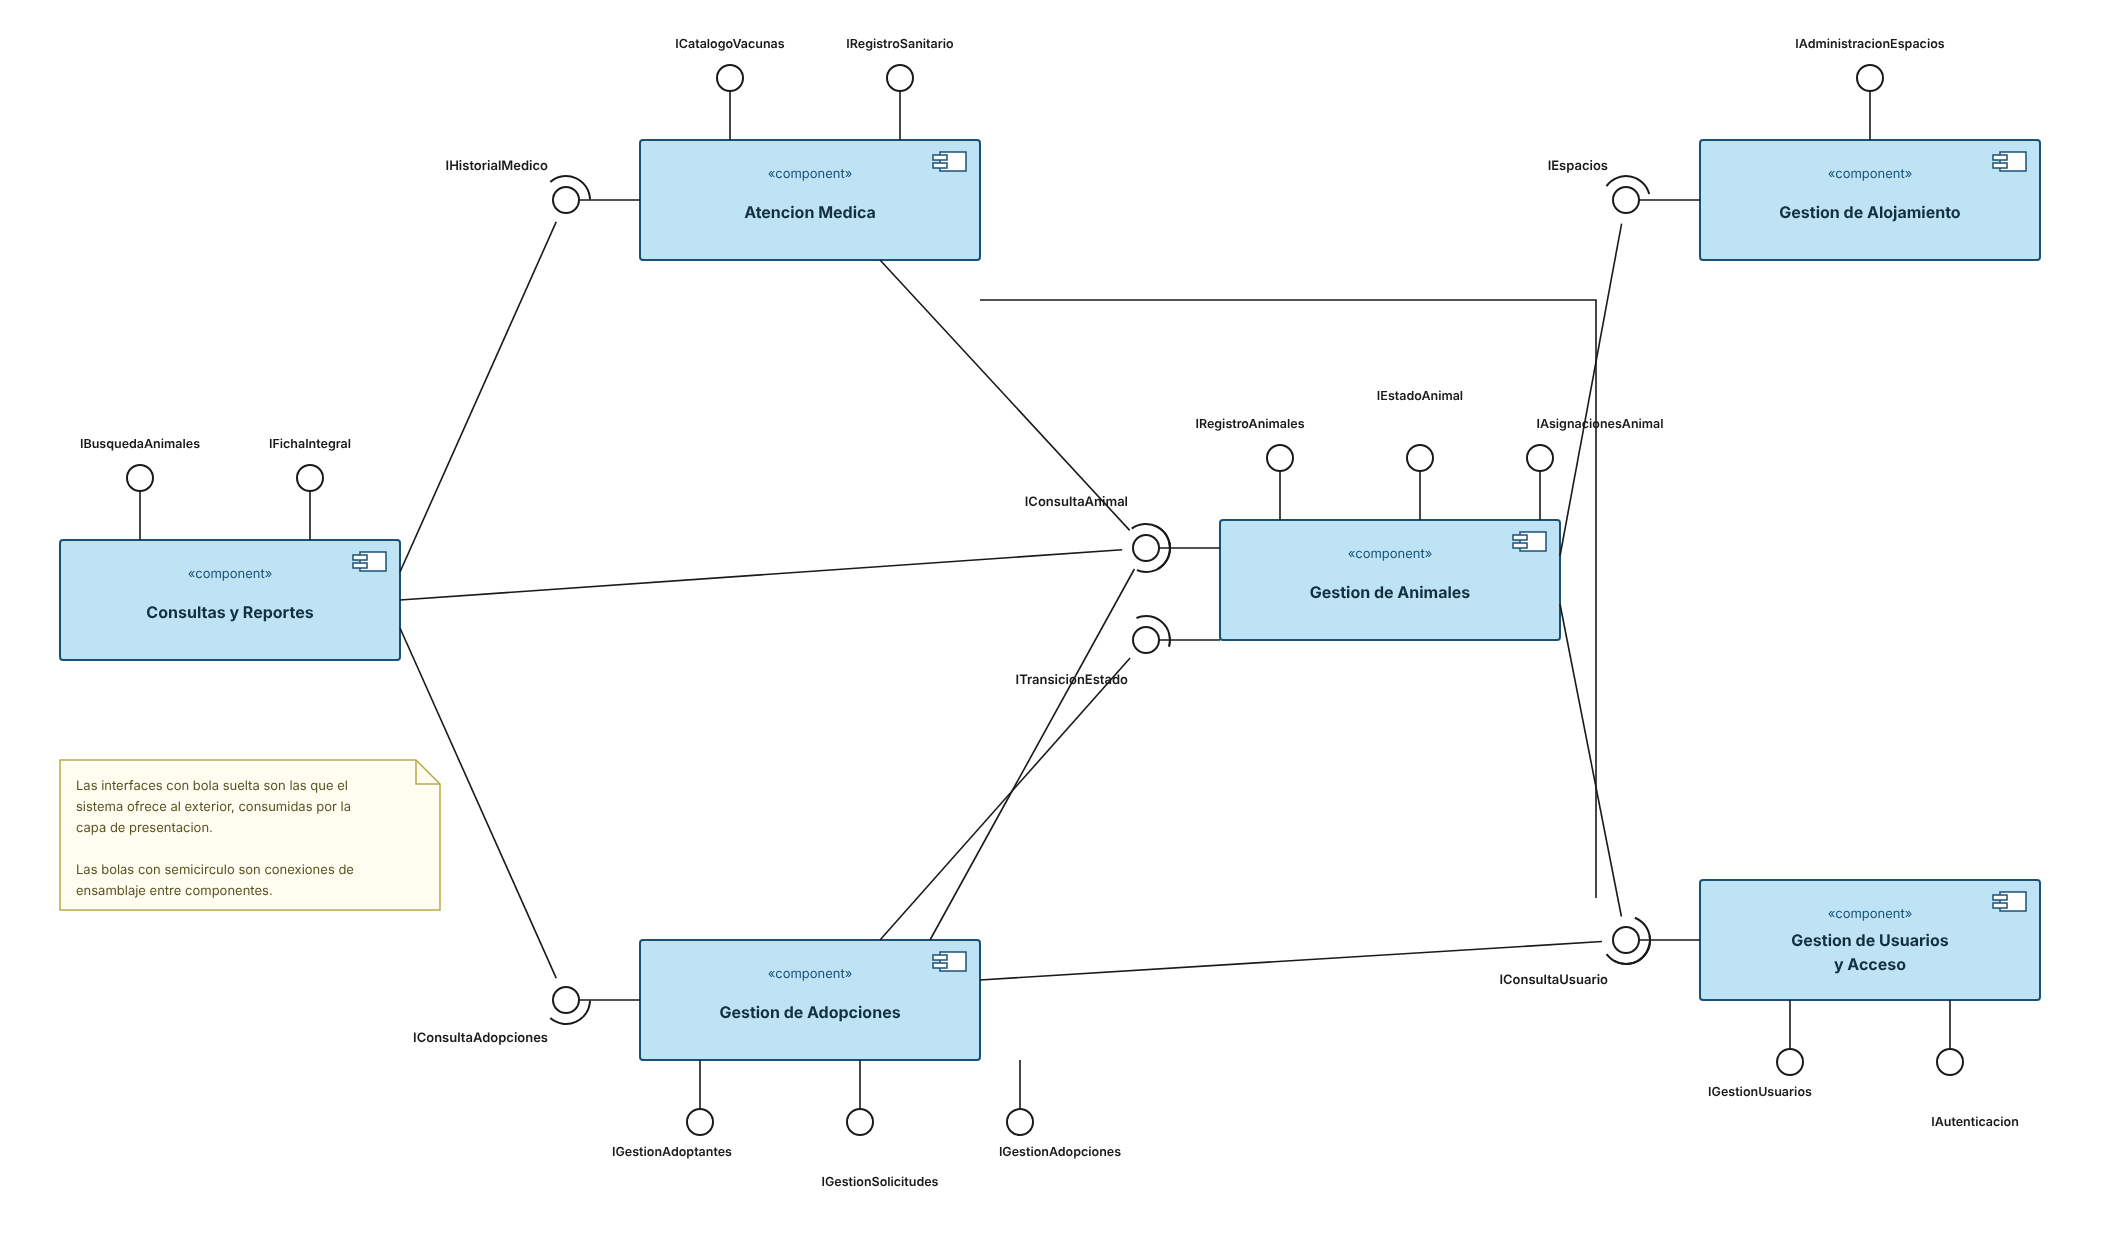
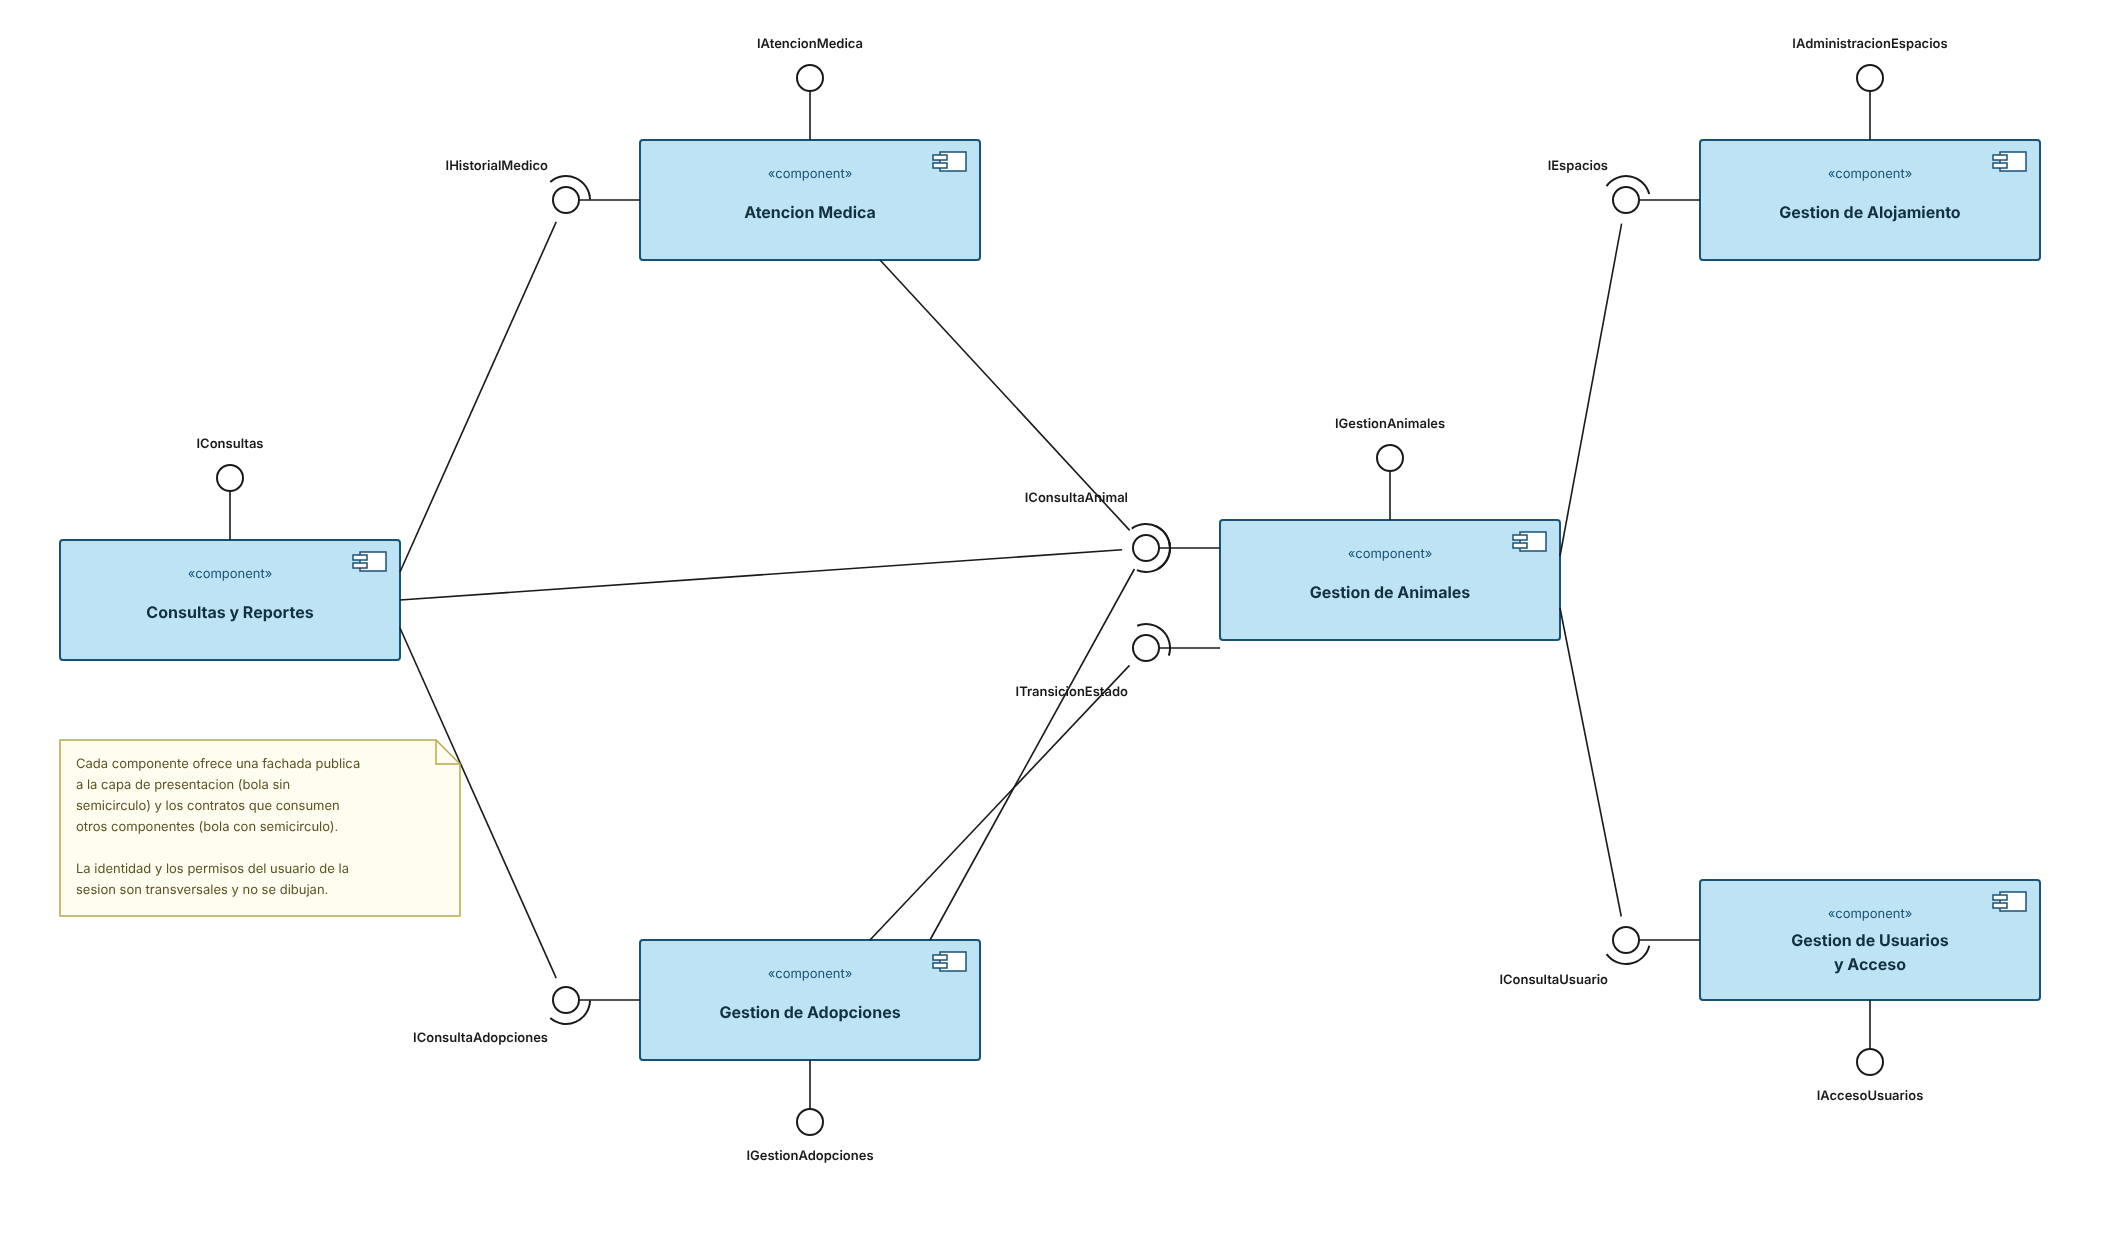
Depurar interfaces de la vista funcional: doce en lugar de diecinueve

diff --git a/docs/vista-funcional.md b/docs/vista-funcional.md
@@ -19,23 +19,16 @@ La columna **Clases** enlaza esta vista con la [vista lógica](vista-logica.md);
 
 ## Interfaces públicas
 
-Son las que el sistema ofrece al exterior; las consume la capa de presentación. En el diagrama se dibujan como bola sin semicírculo.
+Cada componente ofrece **una sola** fachada hacia la capa de presentación. En el diagrama se dibujan como bola sin semicírculo.
 
-| Interfaz | La proporciona | Operaciones principales | Historias |
+| Interfaz | La proporciona | Operaciones | Historias |
 |---|---|---|---|
-| `IGestionUsuarios` | Gestión de Usuarios y Acceso | `registrarUsuario` | HU-01 |
-| `IAutenticacion` | Gestión de Usuarios y Acceso | `autenticar`, `cerrarSesion` | HU-02 |
+| `IAccesoUsuarios` | Gestión de Usuarios y Acceso | `registrarUsuario`, `autenticar`, `cerrarSesion` | HU-01, HU-02 |
 | `IAdministracionEspacios` | Gestión de Alojamiento | `crearEspacio`, `actualizarCapacidad`, `desactivarEspacio`, `reactivarEspacio`, `consultarOcupacion` | HU-06 |
-| `IRegistroAnimales` | Gestión de Animales | `registrarAnimal`, `actualizarAnimal` | HU-03 |
-| `IEstadoAnimal` | Gestión de Animales | `cambiarEstado` | HU-04 |
-| `IAsignacionesAnimal` | Gestión de Animales | `asignarAlojamiento`, `asignarVoluntario` | HU-05, HU-21 |
-| `ICatalogoVacunas` | Atención Médica | `crearTipoVacuna`, `desactivarTipoVacuna`, `reactivarTipoVacuna` | HU-09 |
-| `IRegistroSanitario` | Atención Médica | `registrarVacunacion`, `registrarTratamiento`, `finalizarTratamiento` | HU-10, HU-11 |
-| `IGestionAdoptantes` | Gestión de Adopciones | `registrarAdoptante`, `actualizarAdoptante` | HU-12 |
-| `IGestionSolicitudes` | Gestión de Adopciones | `registrarSolicitud`, `evaluarSolicitud`, `cancelarSolicitud`, `consultarSolicitudes` | HU-13 a HU-16 |
-| `IGestionAdopciones` | Gestión de Adopciones | `registrarAdopcion`, `registrarDevolucion`, `programarVisita`, `registrarResultadoVisita` | HU-17 a HU-20 |
-| `IBusquedaAnimales` | Consultas y Reportes | `buscar` | HU-07 |
-| `IFichaIntegral` | Consultas y Reportes | `fichaDe` | HU-08 |
+| `IGestionAnimales` | Gestión de Animales | `registrarAnimal`, `actualizarAnimal`, `cambiarEstado`, `asignarAlojamiento`, `asignarVoluntario` | HU-03, HU-04, HU-05, HU-21 |
+| `IAtencionMedica` | Atención Médica | `crearTipoVacuna`, `desactivarTipoVacuna`, `registrarVacunacion`, `registrarTratamiento`, `finalizarTratamiento` | HU-09, HU-10, HU-11 |
+| `IGestionAdopciones` | Gestión de Adopciones | `registrarAdoptante`, `registrarSolicitud`, `evaluarSolicitud`, `cancelarSolicitud`, `registrarAdopcion`, `registrarDevolucion`, `programarVisita`, `registrarResultadoVisita` | HU-12 a HU-20 |
+| `IConsultas` | Consultas y Reportes | `buscarAnimales`, `fichaDe`, `consultarSolicitudes` | HU-07, HU-08 |
 
 ## Interfaces internas y conexiones de ensamblaje
 
@@ -43,14 +36,14 @@ Son los contratos entre componentes. En el diagrama cada una se dibuja con una s
 
 | Interfaz | La proporciona | La requieren | Operaciones | Por qué se necesita |
 |---|---|---|---|---|
-| `IConsultaUsuario` | Gestión de Usuarios y Acceso | Gestión de Animales, Atención Médica, Gestión de Adopciones | `existeConRol`, `obtenerNombre` | Validar que el voluntario, el veterinario o el coordinador que queda como responsable exista y tenga ese rol |
+| `IConsultaUsuario` | Gestión de Usuarios y Acceso | Gestión de Animales | `existeConRol`, `listarPorRol` | Al asignar el cuidador de un animal hay que ofrecer la lista de voluntarios y verificar que el elegido tenga ese rol |
 | `IEspacios` | Gestión de Alojamiento | Gestión de Animales | `tieneCupo`, `ocupar`, `liberar` | Comprobar el cupo antes de alojar un animal y liberar el espacio al adoptarse |
 | `IConsultaAnimal` | Gestión de Animales | Atención Médica, Gestión de Adopciones, Consultas y Reportes | `obtenerAnimal`, `estadoActual`, `estaDisponible`, `listar` | Atención Médica no vacuna a un animal *No disponible*; Adopciones no acepta solicitudes sobre uno que no esté *Disponible*; Consultas arma la ficha |
 | `ITransicionEstado` | Gestión de Animales | Gestión de Adopciones | `marcarEnProcesoAdopcion`, `marcarAdoptado`, `marcarEnValoracion` | Los cambios de estado automáticos al aprobar, entregar o recibir una devolución |
 | `IHistorialMedico` | Atención Médica | Consultas y Reportes | `vacunasDe`, `tratamientosDe`, `tieneTratamientoActivo` | La ficha integral muestra el historial sanitario |
 | `IConsultaAdopciones` | Gestión de Adopciones | Consultas y Reportes | `solicitudesDe`, `adopcionDe`, `visitasDe` | La ficha integral muestra solicitudes, adopción y visitas |
 
-Son seis interfaces internas y diez conexiones de ensamblaje.
+Son seis interfaces internas y ocho conexiones de ensamblaje. En total, doce interfaces: seis fachadas públicas y seis contratos internos.
 
 ## Decisiones de esta vista
 
@@ -59,6 +52,12 @@ Son seis interfaces internas y diez conexiones de ensamblaje.
 **Seguimiento Posadopción se fusionó dentro de Gestión de Adopciones.** Tenía una sola clase, dos historias y su única colaboración era con Adopciones. Las visitas de seguimiento son parte del ciclo de vida de la adopción, no una responsabilidad separada.
 
 **Consultas y Reportes se mantiene como componente propio y no dentro de Atención Médica.** La ficha integral consolida cinco cosas: estado del animal, alojamiento, historial médico, solicitudes y visitas. Si viviera dentro de Atención Médica, ese componente tendría que depender de Gestión de Adopciones, lo que mezcla la responsabilidad sanitaria con la del proceso de adopción. Como componente de solo lectura, consume de tres y no es consumido por nadie.
+
+**Una sola fachada pública por componente.** La primera versión de esta vista tenía trece interfaces públicas, una por cada grupo de historias. Eso no aportaba información de diseño: era el backlog reescrito en forma de interfaz. El criterio que se aplicó para depurarlas fue segregar por tipo de cliente, no por caso de uso: la capa de presentación es un único cliente de cada componente, así que recibe una fachada; los componentes internos reciben un contrato propio solo cuando lo que necesitan es distinto.
+
+**`IConsultaAnimal` e `ITransicionEstado` están separadas a propósito.** Ambas las proporciona Gestión de Animales, pero tienen clientes con derechos distintos: la primera solo lee y la consumen tres componentes, la segunda modifica el estado y solo la consume Gestión de Adopciones. Si fueran una sola interfaz, Consultas y Reportes, que es de solo lectura, quedaría con la capacidad de cambiar el estado de un animal.
+
+**La identidad del usuario de la sesión no se dibuja.** Atención Médica y Gestión de Adopciones registran quién aplicó una vacuna o quién evaluó una solicitud, pero ese dato viene del contexto de la sesión, no de una consulta a otro componente. Dibujarlo habría sumado dos conexiones que no representan una colaboración real. El único caso en que sí hay consulta es la asignación del voluntario responsable, donde hay que ofrecer la lista de usuarios con ese rol.
 
 **No hay dependencias circulares.** El grafo es un orden estricto: Gestión de Usuarios y Acceso y Gestión de Alojamiento no requieren nada; Gestión de Animales requiere de esas dos; Atención Médica y Gestión de Adopciones requieren de Gestión de Animales; Consultas y Reportes requiere de los tres anteriores. Eso es lo que se perdería si la ficha integral viviera dentro de Gestión de Animales: ese componente pasaría a requerir de quienes ya lo requieren a él.
 
